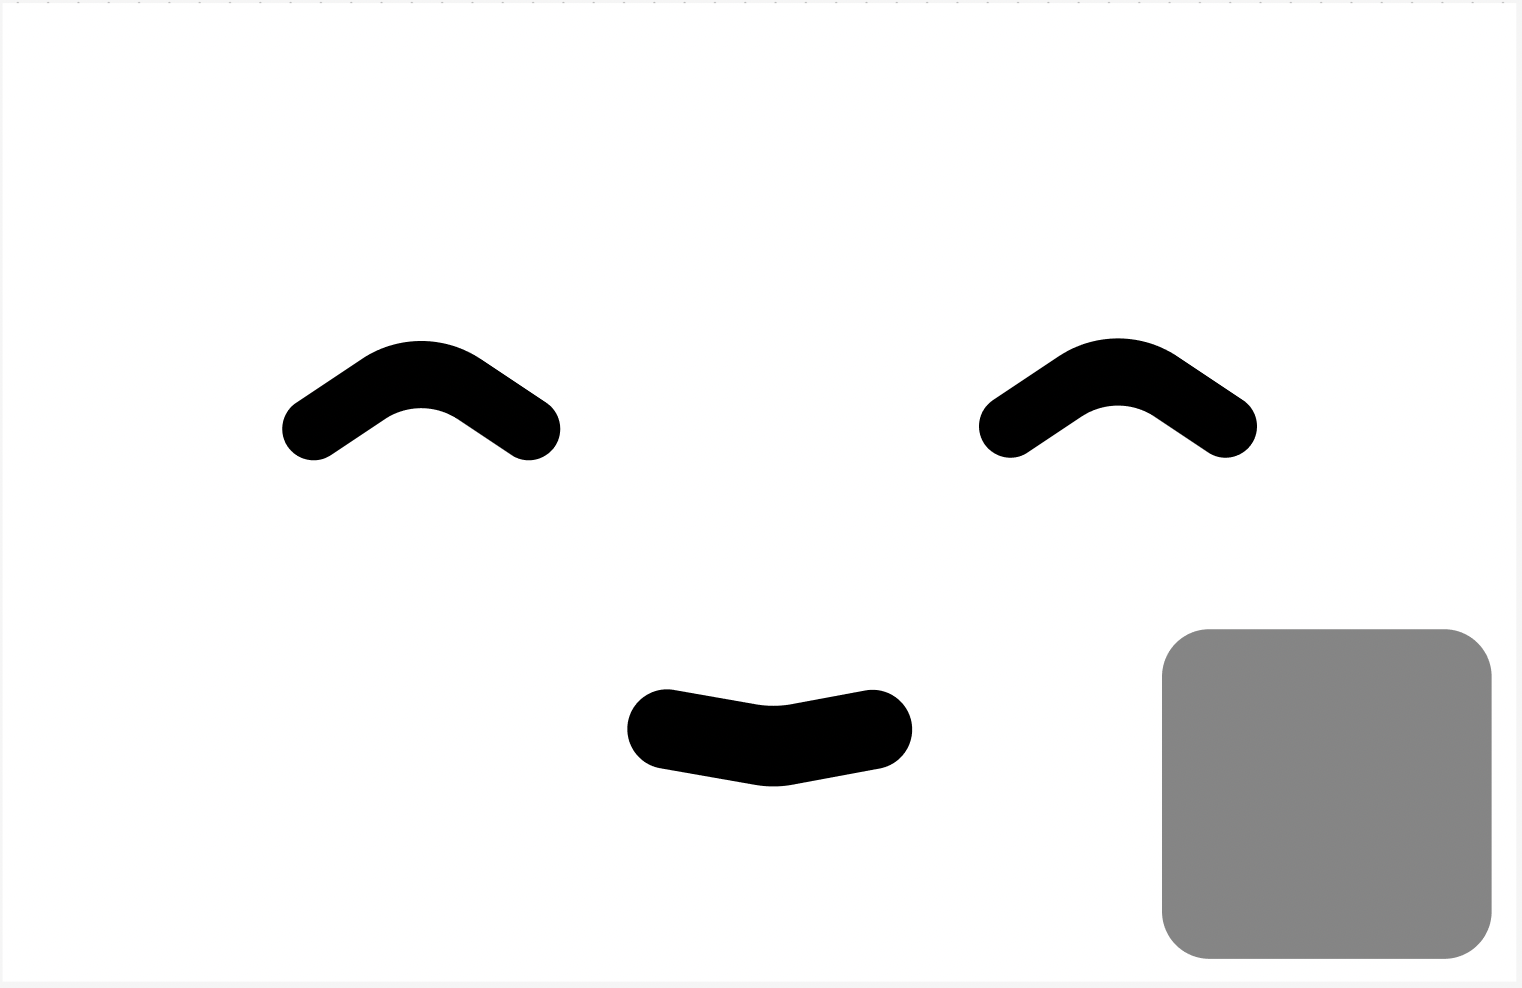
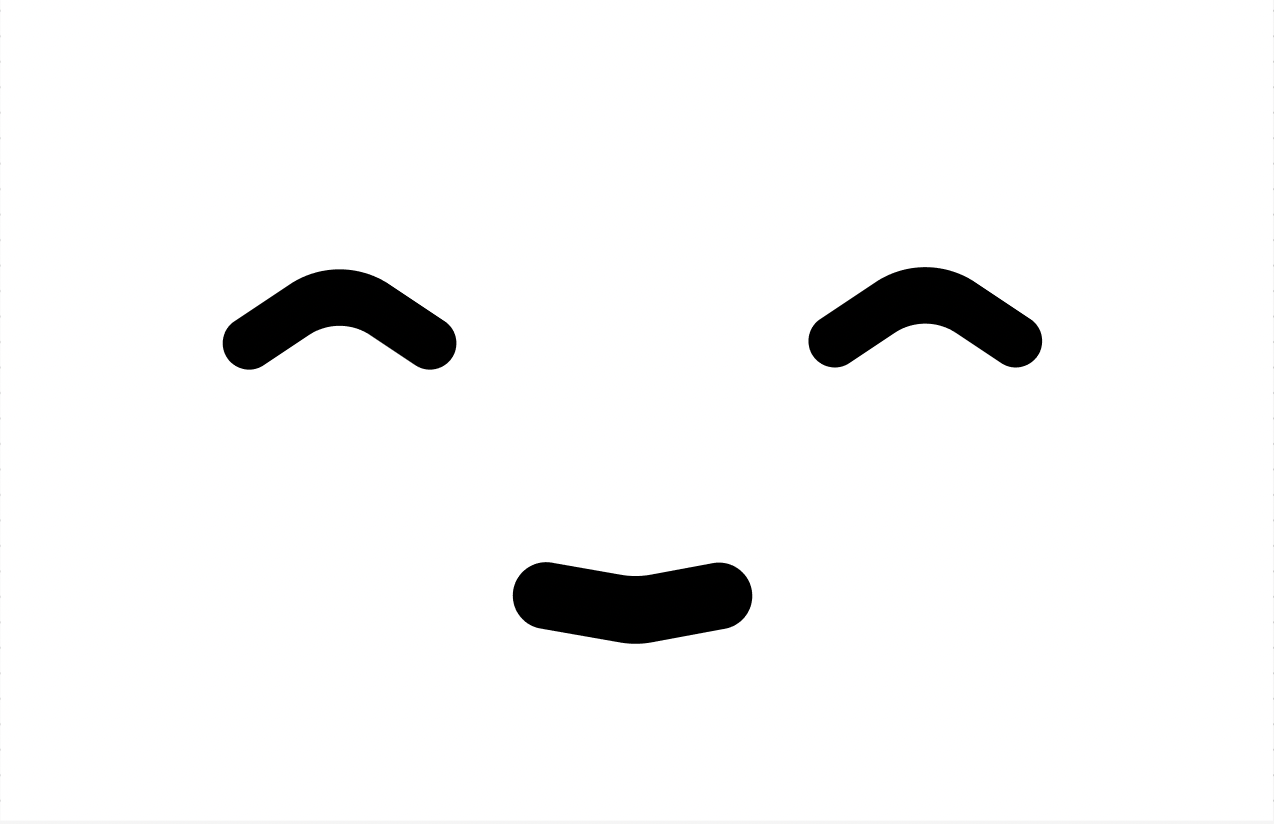
The faces now exist, we added a new user mode, but the facial expressions not fully refined, while still working

diff --git a/src/app/components/VendyUserView.tsx b/src/app/components/VendyUserView.tsx
@@ -1,0 +1,201 @@
+"use client";
+
+import React, { useEffect, useState } from "react";
+import Image from "next/image";
+
+export interface VendyUserViewProps {
+  currentTotal: number | null;
+  paymentComplete: boolean;
+  onPayClick: () => void;
+  sessionStatus: string;
+  isPTTActive: boolean;
+  setIsPTTActive: (val: boolean) => void;
+  isPTTUserSpeaking: boolean;
+  handleTalkButtonDown: () => void;
+  handleTalkButtonUp: () => void;
+}
+
+type VendyState = "neutral" | "speaking" | "payment_complete";
+
+function VendyUserView({
+  currentTotal,
+  paymentComplete,
+  onPayClick,
+  sessionStatus,
+  isPTTActive,
+  setIsPTTActive,
+  isPTTUserSpeaking,
+  handleTalkButtonDown,
+  handleTalkButtonUp,
+}: VendyUserViewProps) {
+  const [vendyState, setVendyState] = useState<VendyState>("neutral");
+
+  // Listen for agent speaking events to change face state
+  useEffect(() => {
+    const handleAgentEvent = (event: any) => {
+      const detail = event.detail || event;
+
+      // Check if payment is complete
+      if (
+        detail.type === "conversation.item.created" &&
+        detail.item?.type === "function_call" &&
+        detail.item?.name === "process_payment"
+      ) {
+        setVendyState("payment_complete");
+        return;
+      }
+
+      // Check if agent is speaking
+      if (
+        detail.type === "response.audio.delta" ||
+        detail.type === "response.audio_transcript.delta"
+      ) {
+        setVendyState("speaking");
+        return;
+      }
+
+      // Check if agent finished speaking
+      if (
+        detail.type === "response.audio.done" ||
+        detail.type === "response.done"
+      ) {
+        // Only return to neutral if payment isn't complete
+        if (!paymentComplete) {
+          setVendyState("neutral");
+        }
+      }
+    };
+
+    window.addEventListener("agent-event", handleAgentEvent);
+    return () => {
+      window.removeEventListener("agent-event", handleAgentEvent);
+    };
+  }, [paymentComplete]);
+
+  // Update state when payment completes and revert after delay
+  useEffect(() => {
+    if (paymentComplete) {
+      setVendyState("payment_complete");
+
+      // Revert to neutral after 10 seconds
+      const timer = setTimeout(() => {
+        setVendyState("neutral");
+      }, 10000);
+
+      return () => clearTimeout(timer);
+    }
+  }, [paymentComplete]);
+
+  // Map state to image file
+  const getVendyImage = () => {
+    switch (vendyState) {
+      case "speaking":
+        return "/vendy_speaking.png";
+      case "payment_complete":
+        return "/payment_complete.png";
+      case "neutral":
+      default:
+        return "/vendy_neutral.png";
+    }
+  };
+
+  const isConnected = sessionStatus === "CONNECTED";
+
+  return (
+    <div className="flex flex-col h-screen bg-white relative">
+      {/* Vendy Face Container */}
+      <div className="flex-1 flex items-center justify-center relative">
+        <div className="relative w-full h-full flex items-center justify-center">
+          <Image
+            src={getVendyImage()}
+            alt="Vendy"
+            width={1200}
+            height={800}
+            className="object-contain max-w-full max-h-full"
+            priority
+          />
+
+          {/* Payment UI overlay on the "cheek" (grey cube area) */}
+          <div className="absolute bottom-8 right-8 bg-green-600 rounded-2xl p-6 shadow-xl min-w-[280px]">
+            <div className="flex flex-col gap-4">
+              {/* Price Display */}
+              <div className="text-center">
+                <div className="text-sm text-green-100 mb-1">Total</div>
+                <div className="text-4xl font-bold text-white">
+                  {currentTotal || 0} <span className="text-2xl">SAR</span>
+                </div>
+              </div>
+
+              {/* QR Code Placeholder */}
+              {currentTotal && currentTotal > 0 && !paymentComplete && (
+                <div className="bg-white p-4 rounded-lg">
+                  <div className="w-32 h-32 mx-auto bg-gray-200 flex items-center justify-center text-gray-500 text-xs text-center">
+                    QR Code
+                    <br />
+                    (Coming Soon)
+                  </div>
+                </div>
+              )}
+
+              {/* Pay Button */}
+              <button
+                className="bg-white text-green-700 px-6 py-3 rounded-xl text-lg font-bold hover:bg-green-50 disabled:opacity-50 disabled:cursor-not-allowed transition-all"
+                disabled={!currentTotal || sessionStatus !== "CONNECTED" || paymentComplete}
+                onClick={onPayClick}
+              >
+                {paymentComplete ? "✓ Payment Complete!" : "Pay Now"}
+              </button>
+
+              {/* Connection Status Indicator (subtle) */}
+              {sessionStatus !== "CONNECTED" && (
+                <div className="text-center text-xs text-green-100">
+                  {sessionStatus === "CONNECTING" ? "Connecting..." : "Disconnected"}
+                </div>
+              )}
+            </div>
+          </div>
+        </div>
+      </div>
+
+      {/* Bottom PTT Control Bar */}
+      <div className="bg-white border-t border-gray-300 px-6 py-4 flex items-center justify-center gap-4">
+        <div className="flex items-center gap-3">
+          <input
+            id="ptt-toggle-user"
+            type="checkbox"
+            checked={isPTTActive}
+            onChange={(e) => setIsPTTActive(e.target.checked)}
+            disabled={!isConnected}
+            className="w-5 h-5 cursor-pointer accent-gray-900"
+          />
+          <label
+            htmlFor="ptt-toggle-user"
+            className="text-sm font-medium cursor-pointer select-none text-gray-900"
+          >
+            Push to talk
+          </label>
+          <button
+            onMouseDown={handleTalkButtonDown}
+            onMouseUp={handleTalkButtonUp}
+            onTouchStart={handleTalkButtonDown}
+            onTouchEnd={handleTalkButtonUp}
+            disabled={!isPTTActive}
+            className={`py-2 px-6 rounded-lg text-sm font-semibold transition-all ${
+              isPTTUserSpeaking
+                ? "bg-gray-900 text-white"
+                : "bg-gray-800 text-white hover:bg-gray-900"
+            } ${
+              !isPTTActive
+                ? "bg-gray-300 text-gray-500 cursor-not-allowed"
+                : "cursor-pointer"
+            }`}
+          >
+            Hold to Talk
+          </button>
+        </div>
+      </div>
+    </div>
+  );
+}
+
+export default VendyUserView;

diff --git a/src/app/App 2.tsx b/src/app/App 2.tsx
@@ -9,7 +9,6 @@ import Image from "next/image";
 import Transcript from "./components/Transcript";
 import Events from "./components/Events";
 import BottomToolbar from "./components/BottomToolbar";
-import VendyUserView from "./components/VendyUserView";
 
 // Types
 import { SessionStatus } from "@/app/types";
@@ -53,13 +52,6 @@ import { currentConversationId } from "@/app/lib/conversation";
 
 function App() {
   const searchParams = useSearchParams()!;
-
-  // ---------------------------------------------------------------------
-  // UI Mode - Toggle between dev mode (with logs/transcripts) and user mode (clean UI)
-  // Usage: ?mode=user or ?mode=dev (defaults to dev)
-  // ---------------------------------------------------------------------
-  const uiMode = searchParams.get("mode") || "dev";
-  const isUserMode = uiMode === "user";
 
   // ---------------------------------------------------------------------
   // Codec selector – lets you toggle between wide-band Opus (48 kHz)
@@ -578,24 +570,6 @@ useEffect(() => {
   
   
 
-  // If in user mode, render the simplified Vendy UI
-  if (isUserMode) {
-    return (
-      <VendyUserView
-        currentTotal={currentTotal}
-        paymentComplete={paymentComplete}
-        onPayClick={handlePayClick}
-        sessionStatus={sessionStatus}
-        isPTTActive={isPTTActive}
-        setIsPTTActive={setIsPTTActive}
-        isPTTUserSpeaking={isPTTUserSpeaking}
-        handleTalkButtonDown={handleTalkButtonDown}
-        handleTalkButtonUp={handleTalkButtonUp}
-      />
-    );
-  }
-
-  // Otherwise, render the full dev/dashboard UI
   return (
     <div className="text-base flex flex-col h-screen bg-gray-100 text-gray-800 relative">
       <div className="p-5 text-lg font-semibold flex justify-between items-center">
@@ -714,7 +688,7 @@ useEffect(() => {
           {paymentComplete ? "Payment Complete!" : "Pay"}
         </button>
       </div>
-
+      
 
       <BottomToolbar
         sessionStatus={sessionStatus}

diff --git a/src/app/hooks/useRealtimeSession.ts b/src/app/hooks/useRealtimeSession.ts
@@ -61,27 +61,30 @@ export function useRealtimeSession(callbacks: RealtimeSessionCallbacks = {}) {
       //   console.error("Failed to log message:", err);
       // }
 
-    // ORIGINAL LOGIC: 
+    // ORIGINAL LOGIC:
     // Handle additional server events that aren't managed by the session
     switch (event.type) {
       case "conversation.item.input_audio_transcription.completed": {
         historyHandlers.handleTranscriptionCompleted(event);
+        window.dispatchEvent(new CustomEvent("agent-event", { detail: event }));
         break;
       }
       case "response.audio_transcript.done": {
         historyHandlers.handleTranscriptionCompleted(event);
+        window.dispatchEvent(new CustomEvent("agent-event", { detail: event }));
         break;
       }
       case "response.audio_transcript.delta": {
         historyHandlers.handleTranscriptionDelta(event);
+        window.dispatchEvent(new CustomEvent("agent-event", { detail: event }));
         break;
       }
       default: {
         logServerEvent(event);
-        // added for us to listen for agenbt events: 
+        // added for us to listen for agenbt events:
         window.dispatchEvent(new CustomEvent("agent-event", { detail: event }));
         break;
-      } 
+      }
     }
   }
 

diff --git a/next.config.ts b/next.config.ts
@@ -2,6 +2,10 @@ import type { NextConfig } from "next";
 
 const nextConfig: NextConfig = {
   /* config options here */
+  images: {
+    unoptimized: true,
+  },
+  assetPrefix: process.env.NODE_ENV === 'development' ? '' : undefined,
 };
 
 export default nextConfig;

diff --git a/USER_MODE_GUIDE.md b/USER_MODE_GUIDE.md
@@ -1,0 +1,74 @@
+# Vendy User Mode Guide
+
+## Overview
+The Vendy application now supports two UI modes:
+- **Dev Mode** (default): Full dashboard with transcripts, logs, and debugging tools
+- **User Mode**: Clean, simplified interface showing only Vendy's face and payment UI
+
+## How to Use
+
+### Access User Mode
+Add `?mode=user` to your URL:
+```
+http://localhost:3000?mode=user
+http://localhost:3000?mode=user&agentConfig=v3
+http://localhost:3000?mode=user&agentConfig=v1
+```
+
+### Access Dev Mode (Default)
+No parameter needed, or explicitly use `?mode=dev`:
+```
+http://localhost:3000
+http://localhost:3000?mode=dev
+```
+
+## User Mode Features
+
+### Dynamic Vendy Face States
+Vendy's face changes based on the conversation state:
+
+1. **Neutral** (`vendy_neutral_.png`)
+   - Default state when idle or listening
+   - Shown when no interaction is happening
+
+2. **Speaking** (`vendy_speaking.png`)
+   - Active when Vendy is talking
+   - Triggered by audio response events
+
+3. **Payment Complete** (`payment_complete.png`)
+   - Shown after successful payment
+   - Happy Vendy celebrating the transaction
+
+### Payment UI (on Vendy's Cheek)
+Located in the bottom-right corner (grey cube area):
+- **Price Display**: Shows current cart total in SAR
+- **QR Code**: Placeholder for future payment QR implementation
+- **Pay Button**: Triggers payment processing
+- **Connection Status**: Subtle indicator when disconnected
+
+## Technical Details
+
+### Component Structure
+- `VendyUserView.tsx`: New user-facing UI component
+- `App.tsx`: Mode detection and conditional rendering
+- All backend logic remains unchanged
+
+### Event Listeners
+The user mode listens to the same events as dev mode:
+- `response.audio.delta` / `response.audio_transcript.delta` → Speaking
+- `response.audio.done` / `response.done` → Back to neutral
+- `conversation.item.created` (process_payment) → Payment complete
+
+### Maintained Functionality
+- All realtime connection logic
+- Payment processing
+- Agent configurations
+- Audio handling
+- Event system
+
+## Future Enhancements
+- [ ] Implement actual QR code generation
+- [ ] Add animation transitions between face states
+- [ ] Voice activity visualization
+- [ ] Multiple payment method support
+- [ ] Error state UI
